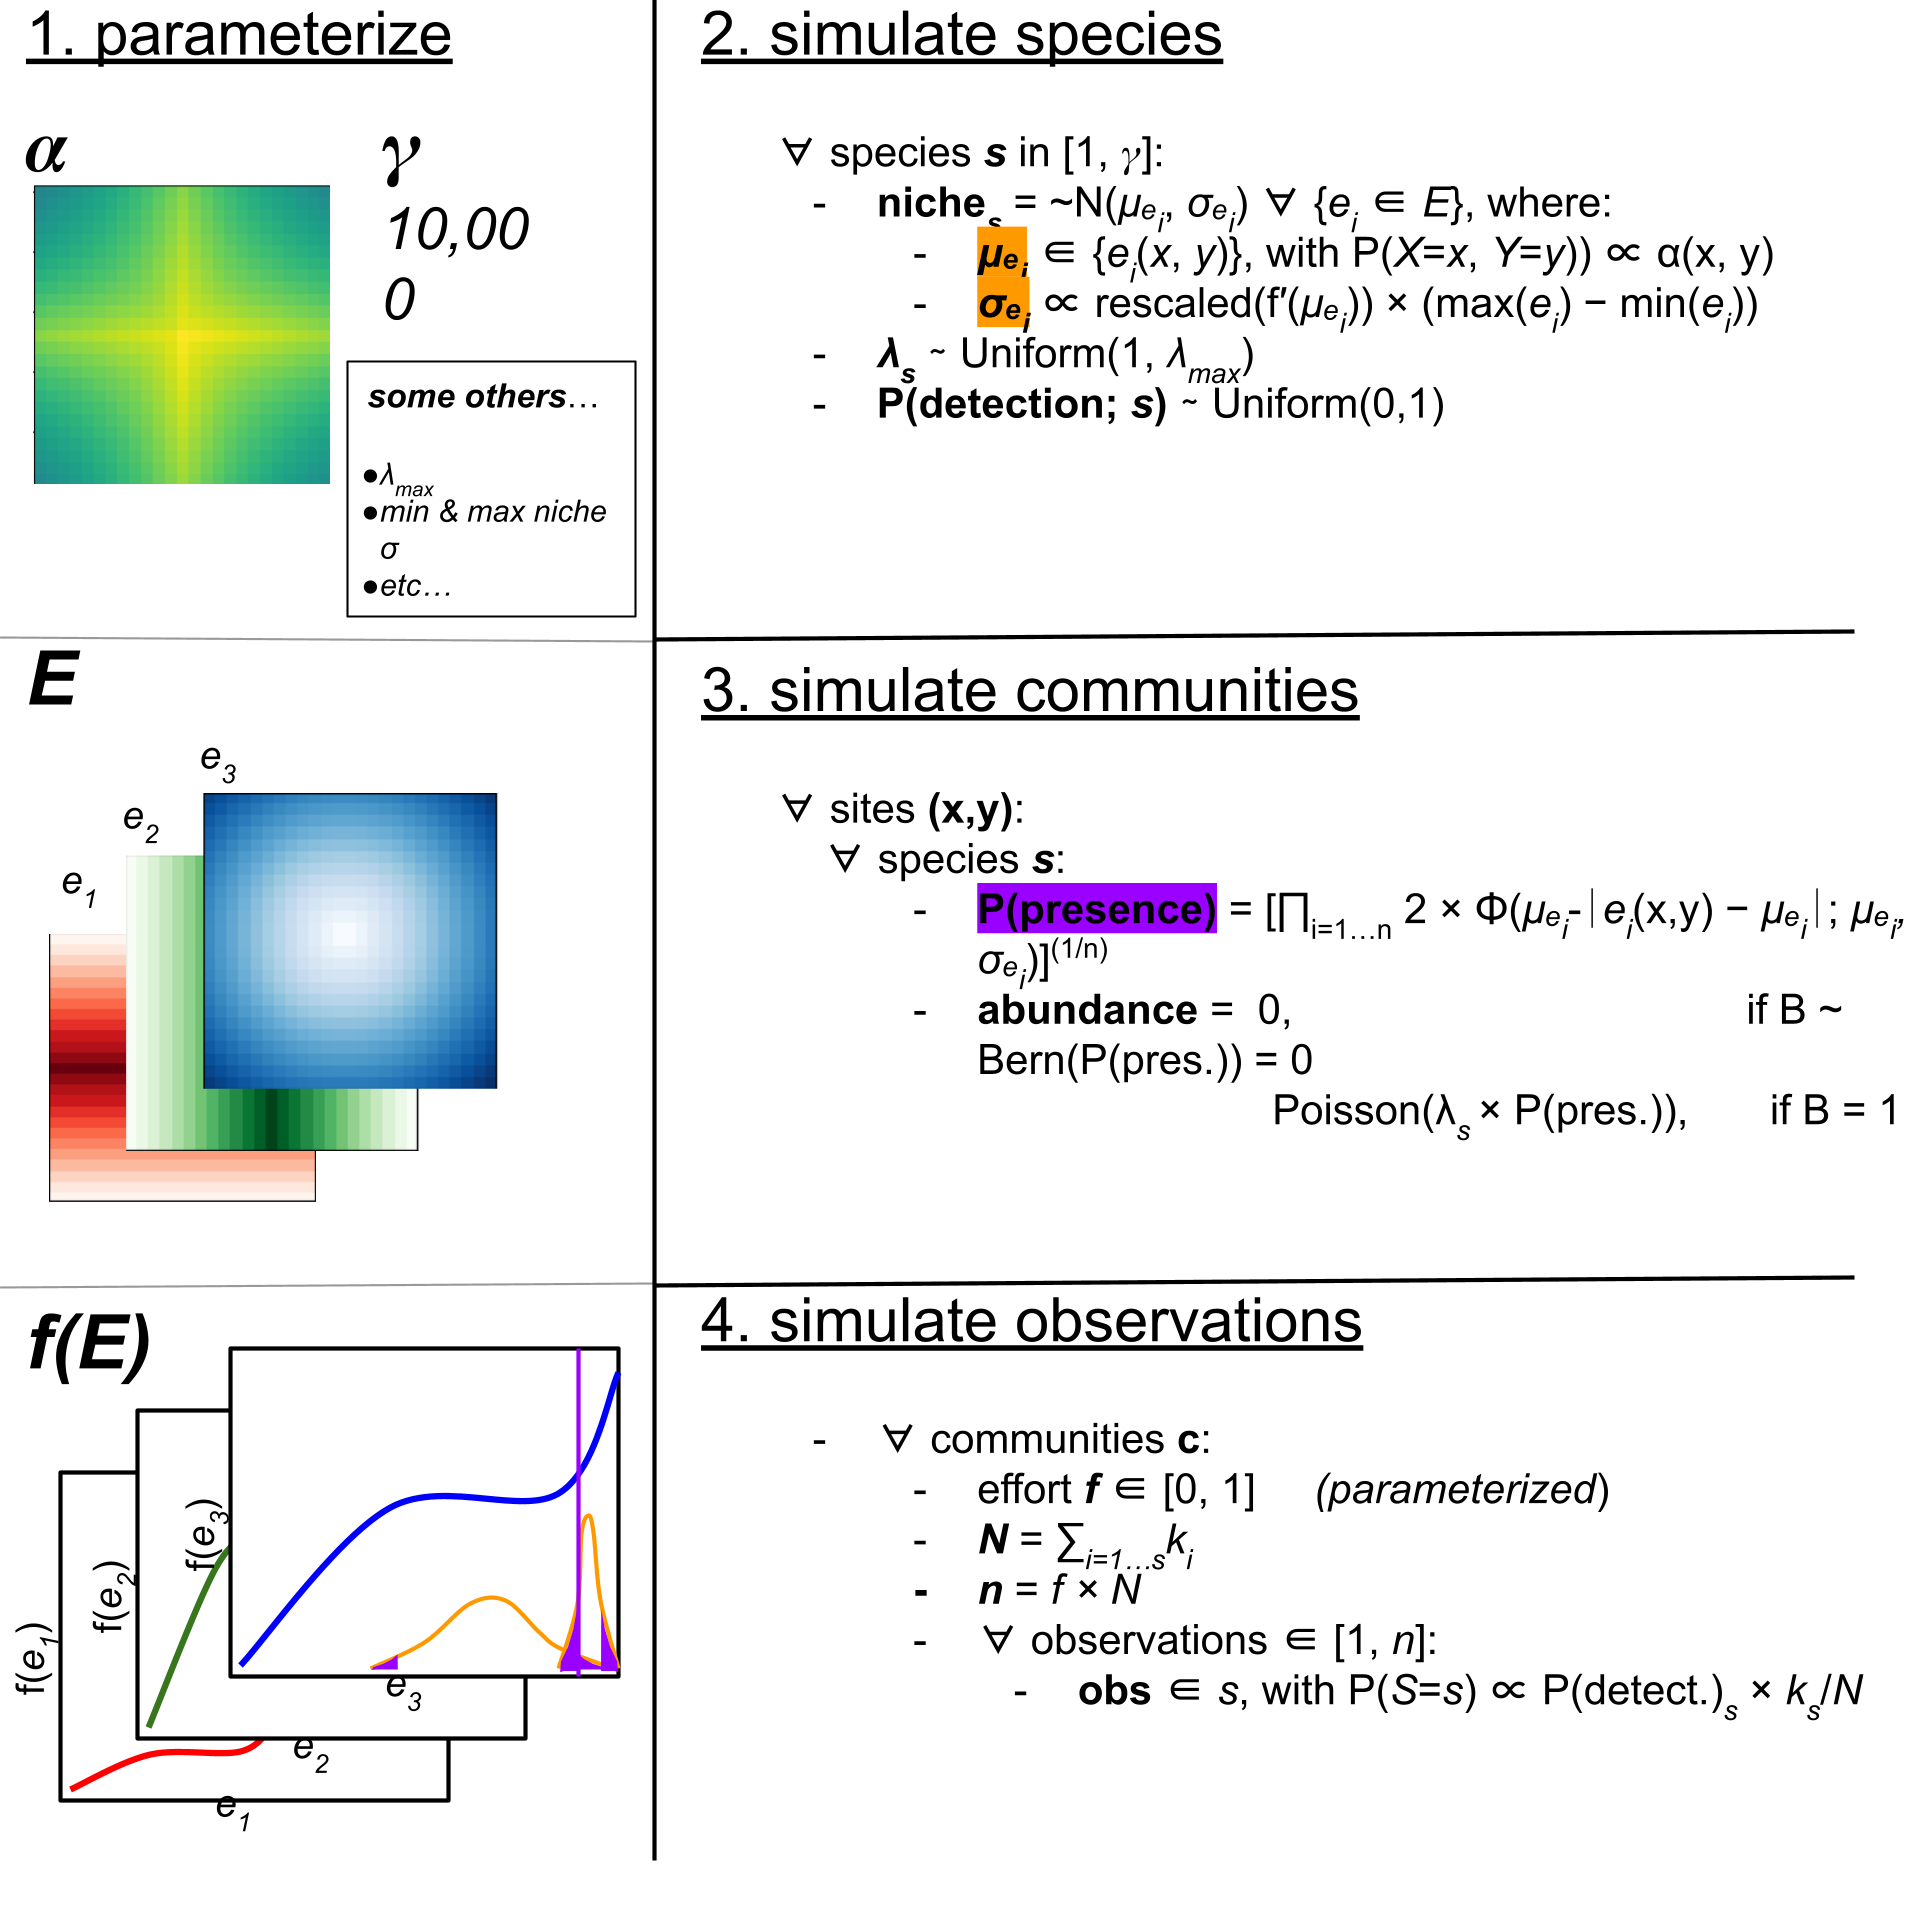
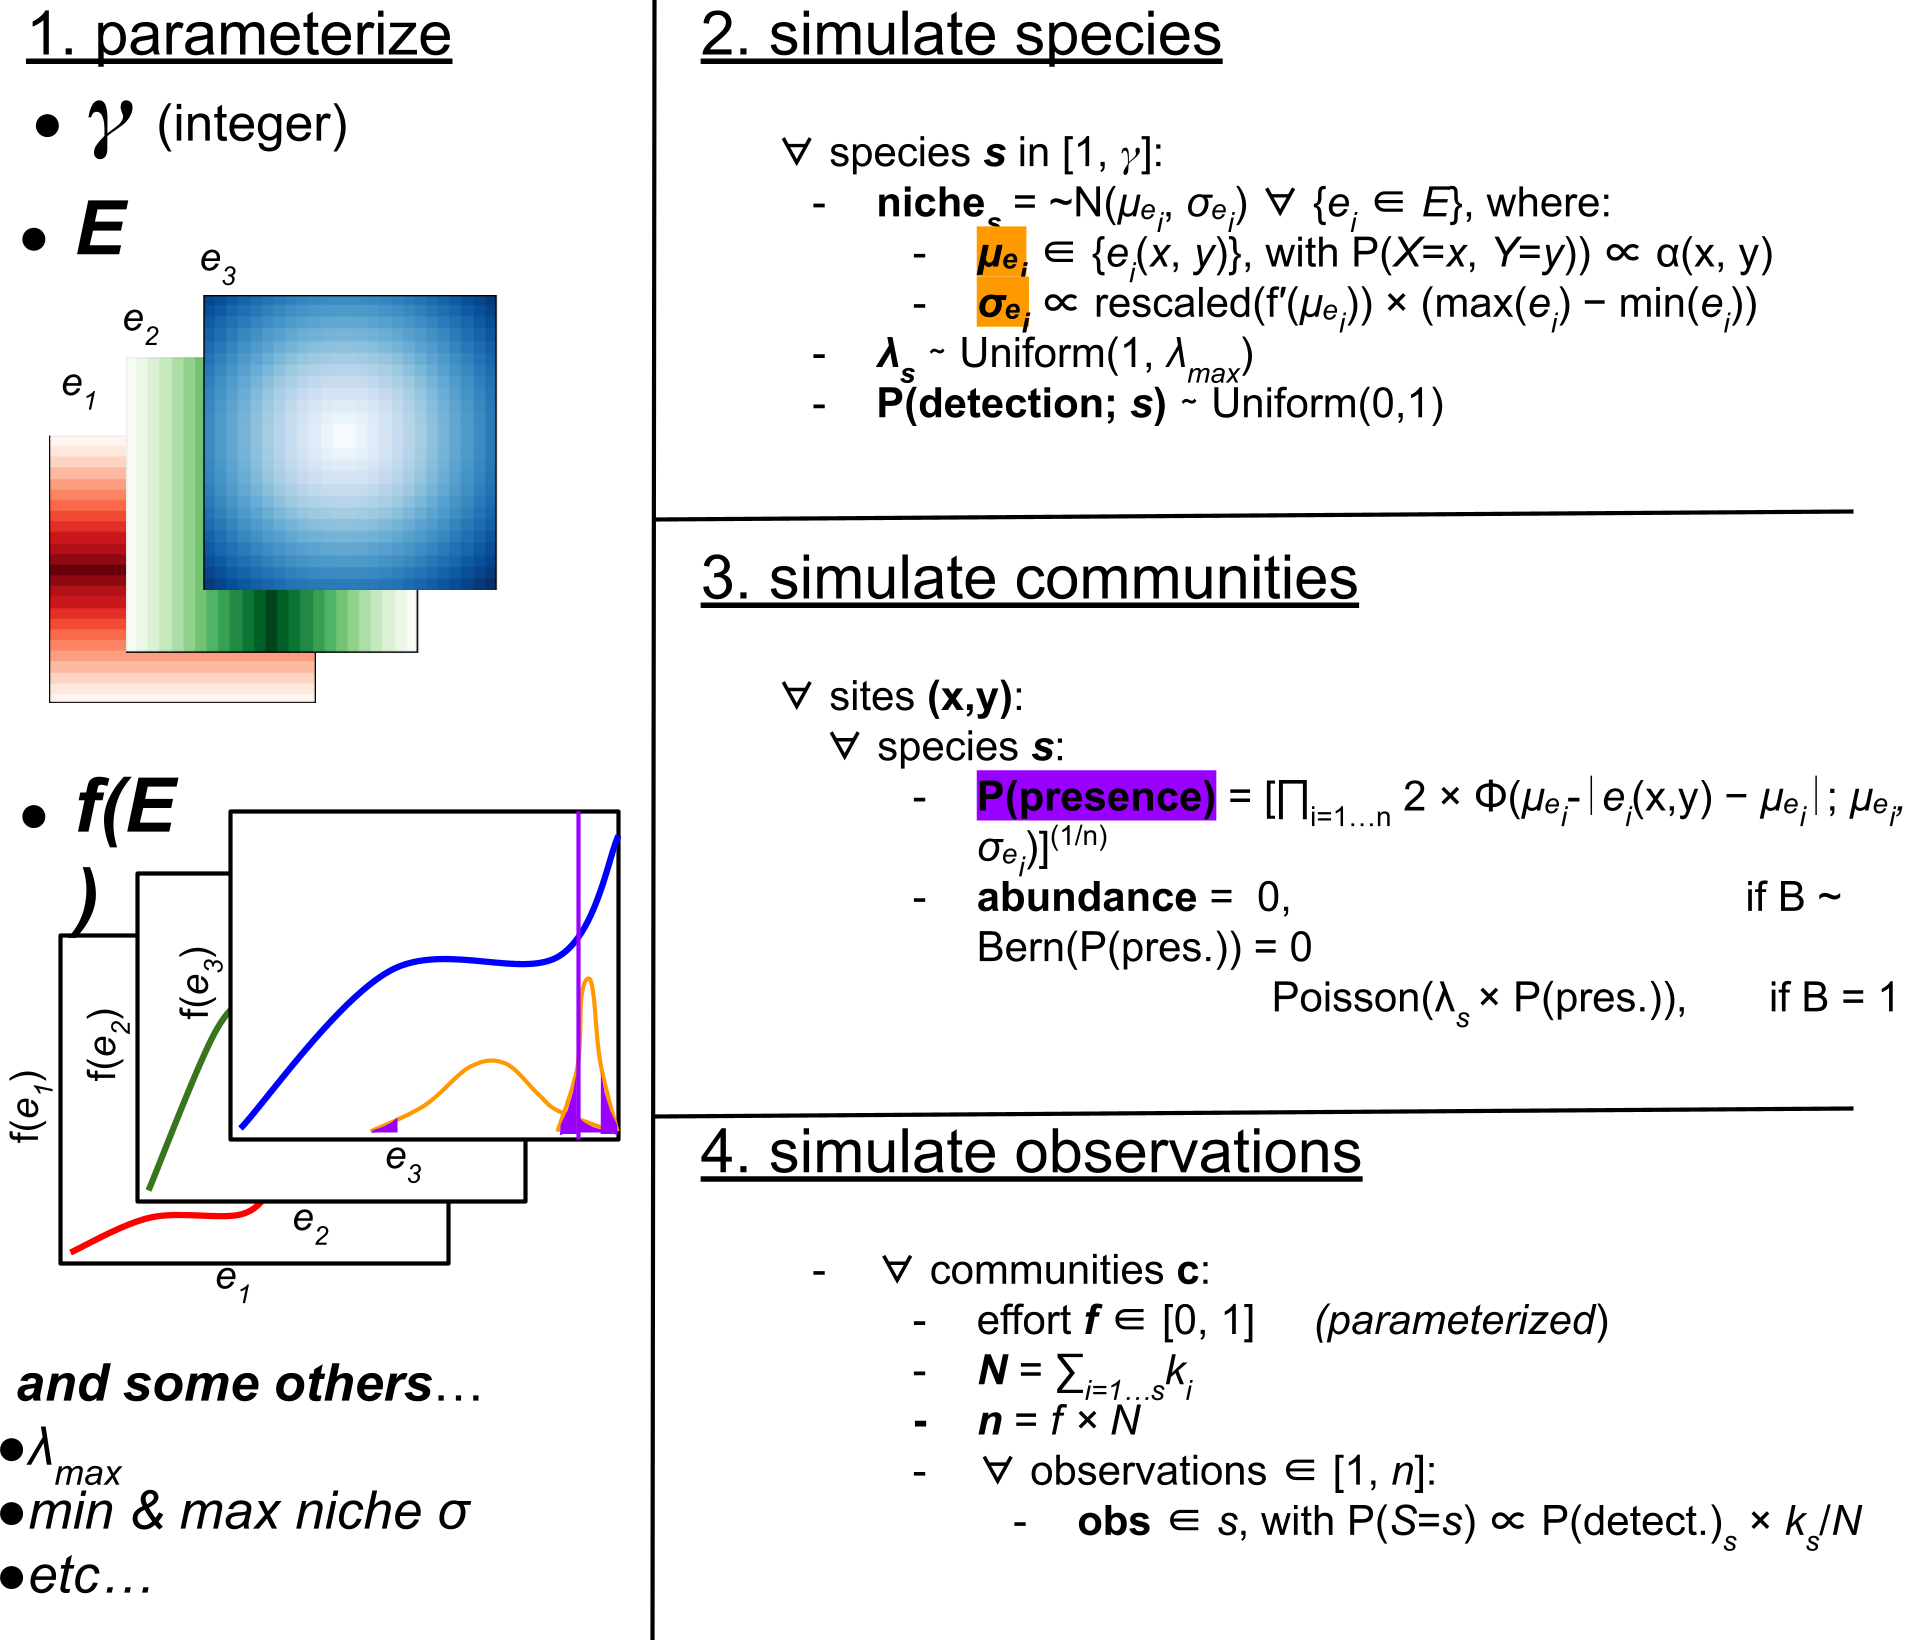
fix conceptual figure. tweak packaging to debug problem with old versions of scikit-learn

diff --git a/README.md b/README.md
@@ -1,6 +1,6 @@
 # SOBiG!
 
-##**S**imulation of **O**bservations of **Bi**odiversity across **G**radients
+### **S**imulation of **O**bservations of **Bi**odiversity across **G**radients
 
 A Python package for 'reverse-engineering' generalised dissimilarity modelling (GDM)
 to simulate communities distributed across variable landscapes,
